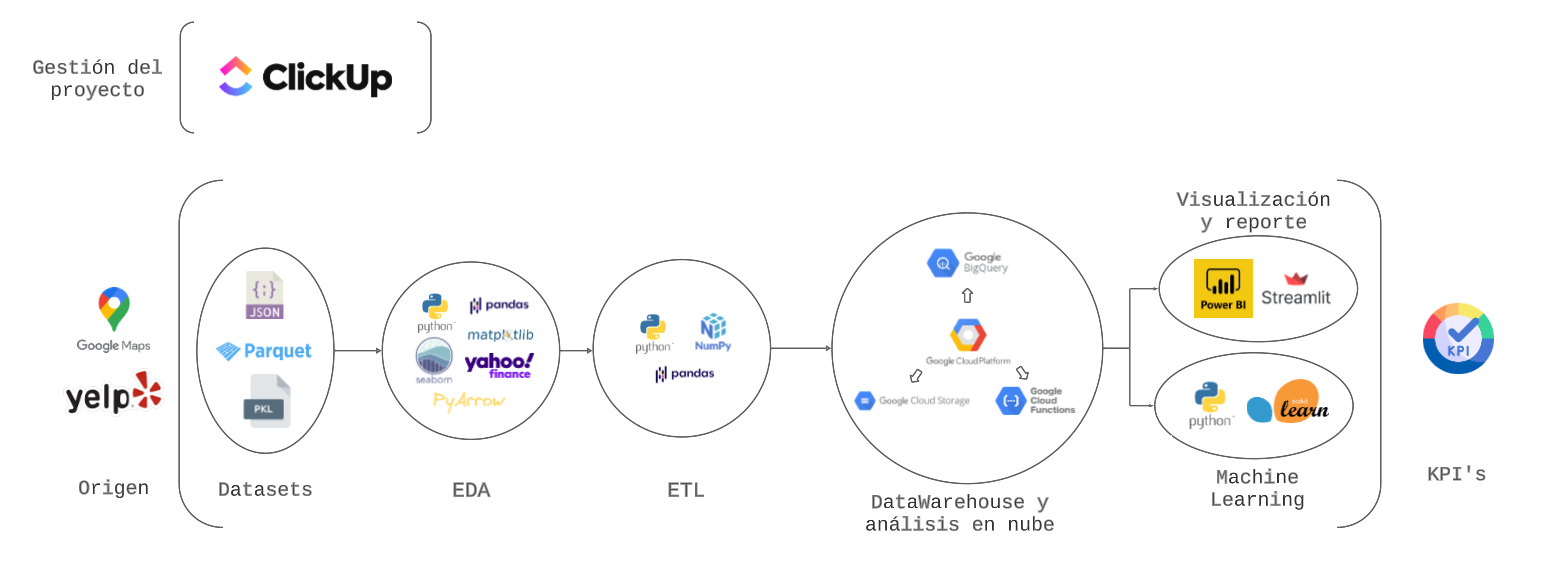
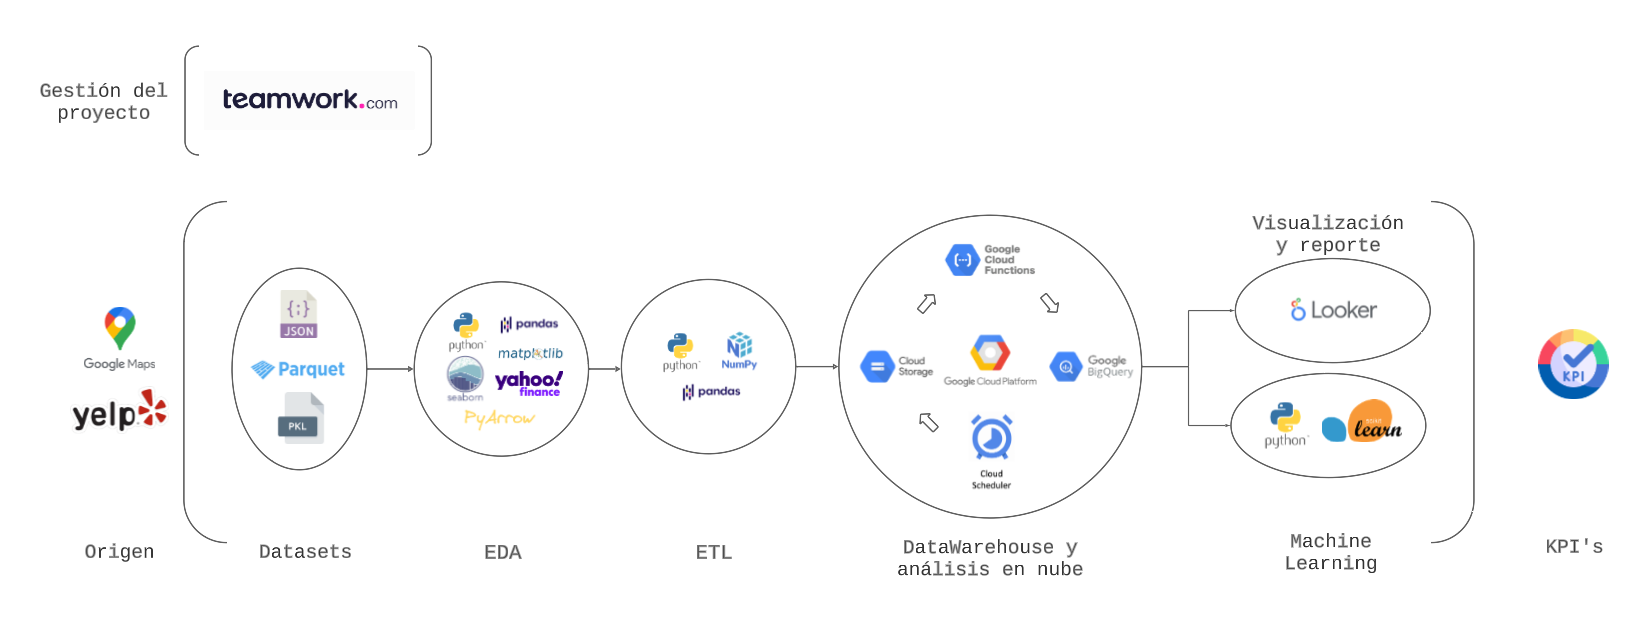
readme

diff --git a/README.md b/README.md
@@ -94,7 +94,7 @@ En lo que se refiere al Stack tecnológico, nuestro cliente nos pidió hacer un 
 Para la infraestructura de datos, utilizaremos un servicio de almacenamiento en la nube. Elegimos la plataforma de Google Cloud (GCP) debido a su buena escalabilidad, rendimiento, seguridad y sus precios flexibles.
 
 Por último, en la etapa de machine learning, utilizaremos, de nuevo, el lenguaje Python, a travez de Jupyter Notebook, Numpy y Pandas. Además, para el modelo de machine learning utilizaremos ScikitLearn.
-Para todo lo que es visualizaciones de datos, usaremos PowerBI, ya que es una plataforma de la que disponemos un buen manejo y, además, es gratuita, a diferencia de otras (como por ejemplo Tableau).
+Para todo lo que es visualizaciones de datos, usaremos Looker, ya que es una plataforma de la que disponemos un buen manejo, además, es gratuita, a diferencia de otras (como por ejemplo Tableau) y, por ultimo, encaja muy bien con el enterno con el que trabajamos (GCP).
 
 # 📊EDA
 
@@ -110,32 +110,25 @@ Los archivos de Yelp, business.pkl contiene información del comercio, incluyend
 
 Por último, realizamos un EDA para los archivos de YahooFinance, contienen una calidad del dato excelente y ningún outlier.
 
-## 💾ETL
+# 💾ETL
 
-El proceso de ETL fue realizado en Google Cloud Platform (GCP) por, como ya dijimos, su buena escalabilidad, rendimiento, seguridad y sus precios flexibles. Realizamos una carga incremental de los datos necesarios para el análisis, extraído directamente desde Google Drive. Su actualización se cada [periodo de tiempo]. Luego, mediante el servicio Cloud Functions, adaptamos distintas funciones hechas en python, que tenían como objetivo pasar los datos del storage a Big Query por un lado, y por el otro, que proceso de haga de manera automática cada vez que surja un cambio en el storage.
+El proceso de ETL fue realizado en Google Cloud Platform (GCP) por su buena escalabilidad, rendimiento, seguridad y sus precios flexibles. Realizamos una carga incremental de los datos necesarios para el análisis, extraído directamente desde Google Drive. La actualización de los datos ocurre de forma automática una vez por semana (es modificable de acuerdo a la necesidad del cliente), Luego mediante el serivcio de google Cloud Functions que nos permite crear y ejecutar funciones en python, que actúan como una pipeline entre el proceso de ETL y la disponibilidad de los datos en Big Query. De esta manera, cada vez que se produce un cambio en el storage, las funciones se encargan de pasar los datos al Big Query de forma eficiente, automática y segura.
 
 Los datos se cargan totalmente en Big Query, y desde allí, mediante consultas, se eligen los archivos a disposición del cliente. Se tomó esta decisión debido a que tenemos como objetivo que el trabajo realizado sea reutilizable en futuros clientes que vayan a necesitar del servicio.
 
-## 📑Modelo Entidad-Relación
+# 📑Modelo Entidad-Relación
 
-### Google Reviews
+<p align=center><img src="img-readme\Entidad_relación_Definitivo2.jpg"><p>
 
-<p align=center><img src="img-readme\Entidad_relación_Google.jpg" width="718" height="507"><p>
+# 🤖Machine Learning Provisorio
 
-### Yelp
-
-<p align=center><img src="img-readme\Entidad_relación_Tips.jpg"><p>
-
-## 🤖Machine Learning Provisorio
-
-### Análisis de sentimiento
+## Análisis de sentimiento
 
 Al cliente se le presentaron distintas opciones de modelos de machine learning que tiene como objeto el análisis de sentimiento de las distintas reviews de los datasets en cuestión. Se prepararon distintas muestras con datasets reducidos, a manera de muestra/ejemplo.
 
 El primero de ellos es uno realizado con la herramienta de machine learning de Google, llamado Natural Language AI. Hicimos una prueba con dataset de 100 filas, al ser gratuito hasta los 5000 unidades de análisis de texto. Al ser de un gran tamaño, el cliente tendría que pagar una alta suma de dinero para utilizar este modelo que contiene una gran cantidad de entradas (2,030 dólares por cada millón de entradas). Debido a esto, preparamos alternativas gratuitas.
 
-El segundo y tercer modelo, utilizan las librerías nltk y textblob. Ambas gratuitas y sirven para el objetivo propuesto (si bien el modelo de Google es más preciso). Queda a disposición del cliente elegir la opción que el prefiera, acorde a lo que él pueda pagar.
-
+El segundo y tercer modelo, utilizan las librerías nltk y textblob. Si bien el modelo de Google es más preciso, estas son gratuitas y sirven para el objetivo propuesto. Queda a disposición del cliente elegir la opción que el prefiera, acorde a lo que él pueda pagar.
 
 # 📂Datos
 +   [Dataset de Google Maps](https://drive.google.com/drive/folders/1Wf7YkxA0aHI3GpoHc9Nh8_scf5BbD4DA?usp=share_link)
